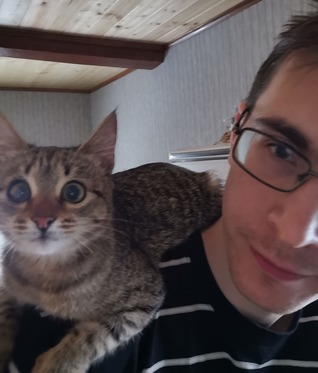
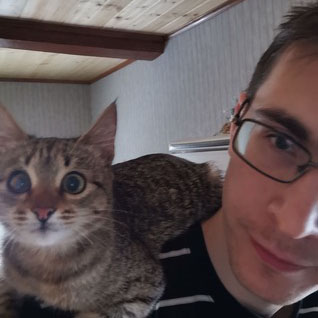
feat: add Daniil Khlybov photo, crop developer images

diff --git a/src/pages/Welcome/Welcome.tsx b/src/pages/Welcome/Welcome.tsx
@@ -11,7 +11,7 @@ import { motion } from 'framer-motion';
 import { DeveloperCard } from '../../components/DeveloperCard/DeveloperCard';
 import andrey_gudin from '../../assets/images/developers/andrey_gudin.jpg';
 import andrei_yurkouski from '../../assets/images/developers/andrei_yurkouski.jpg';
-import steglaset from '../../assets/images/ufo.png';
+import daniil_khlybov from '../../assets/images/developers/daniil_khlybov.jpg';
 import { fromAbove, fromBelow, fromLeft, fromRight } from './animations';
 
 export const Welcome: FC = () => {
@@ -96,7 +96,7 @@ export const Welcome: FC = () => {
           <DeveloperCard
             name={t('info.SteGlaset_name')}
             text={t('info.SteGlaset_info')}
-            src={steglaset}
+            src={daniil_khlybov}
           />
           <DeveloperCard
             name={t('info.yurkouski_name')}

diff --git a/src/components/EditColumn/EditColumn.tsx b/src/components/EditColumn/EditColumn.tsx
@@ -1,5 +1,4 @@
-import React from 'react';
-import { FC } from 'react';
+import React, { FC } from 'react';
 import { Alert, Button } from 'react-bootstrap';
 import { useForm } from 'react-hook-form';
 import { useDispatch, useSelector } from 'react-redux';
